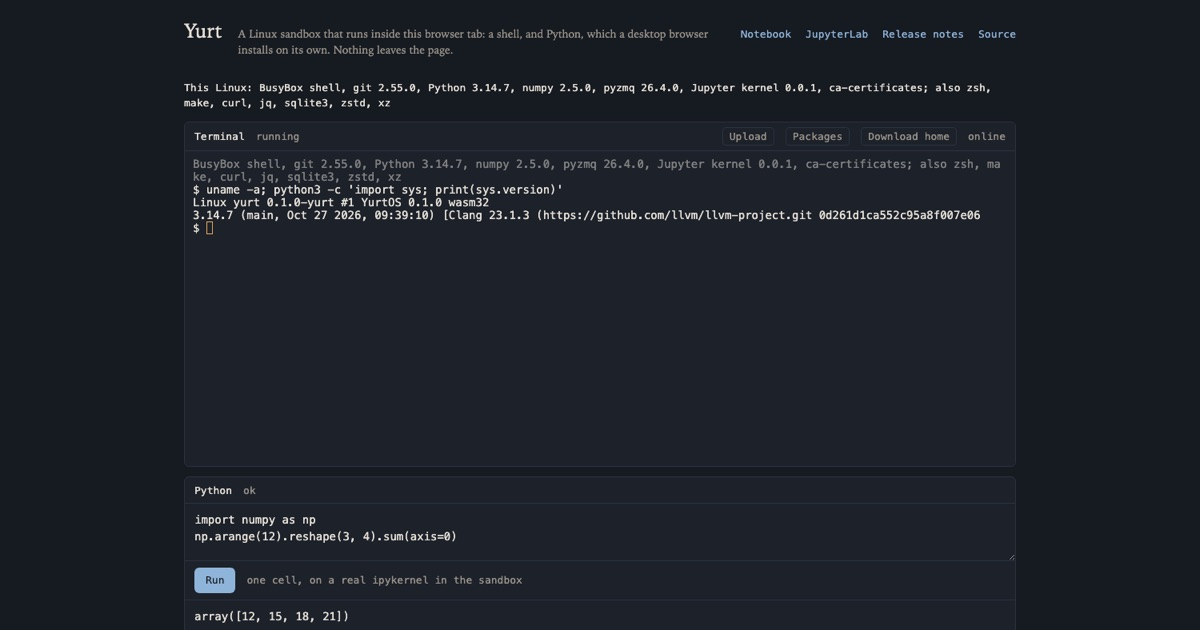
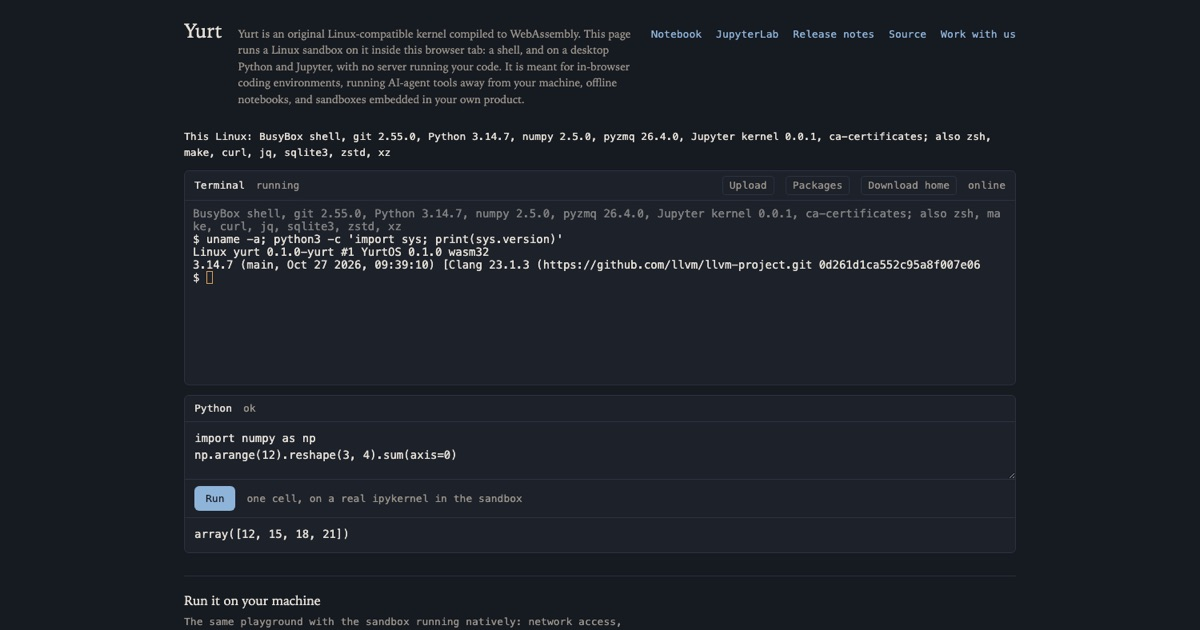
feat(page): review fixes -- the seal API as it is, tablets have Python
The last snapshot card says what the kernel's JavaScript host can seal
today and that it is not public yet, points to the partner section, and
points a program at window.yurt instead of promising partners an API.
The lead says "meant for" and "running AI-agent tools away from your
machine". The tablet note says the shell and Python, and the tablet
failure says to reload or use a desktop browser. The start pane gives
each platform's first download. og-image.jpg is captured again with the
new lead. Tests pin the partner sentences and the version label's .N
and pass-through cases.

Claude-Session: https://claude.ai/code/session_01VmPDaDFFa1ddgvkvaN74Wt

diff --git a/public/index.html b/public/index.html
@@ -658,9 +658,9 @@
           Yurt is an original Linux-compatible kernel compiled to WebAssembly.
           This page runs a Linux sandbox on it inside this browser tab: a shell,
           and on a desktop Python and Jupyter, with no server running your code.
-          It is built for in-browser coding environments, safe execution of
-          AI-agent tools, offline notebooks, and sandboxes embedded in your own
-          product.
+          It is meant for in-browser coding environments, running AI-agent tools
+          away from your machine, offline notebooks, and sandboxes embedded in
+          your own product.
         </p>
         <nav aria-label="interfaces">
           <a
@@ -689,7 +689,7 @@
       </p>
 
       <p id="mobile-note" data-testid="mobile-note" hidden>
-        This looks like a tablet, so this page runs the Linux shell only, with a
+        This looks like a tablet, so this page runs the shell and Python, with a
         snapshot made for tablets: Jupyter and the agent need more memory than a
         tablet browser gives one tab. A desktop browser, or the desktop app,
         runs all of it.
@@ -826,11 +826,12 @@
             </button>
             <p>
               BusyBox <code>ash</code> on a real PTY, on the Yurt kernel
-              compiled to WebAssembly: a shell in about 2&nbsp;s, Jupyter in
-              about 5&nbsp;s.
+              compiled to WebAssembly: a shell in about 2&nbsp;s (Jupyter in
+              about 5&nbsp;s on a desktop).
               <span id="first-visit-note" data-testid="first-visit-note"
-              >The first visit downloads about 140 MB once (40 MB on a phone);
-                later visits load it from the browser's cache.</span>
+              >The first visit downloads it once, about 140 MB on a desktop, 100
+                MB on a tablet, 40 MB on a phone; later visits load it from the
+                browser's cache.</span>
               <span id="offline-note"
               >The sandbox has no network:
                 <code>pip install</code> and <code>wget</code> fail by design
@@ -848,9 +849,9 @@
               <a href="./?start-anyway">this page with ?start-anyway</a>.
             </p>
             <p data-why="tablet" hidden>
-              This is a tablet, and mobile browsers rarely give a tab the memory
-              and background workers the sandbox needs. Open this page in a
-              desktop browser.
+              This is a tablet, and the sandbox did not start here: tablet
+              browsers give one tab little memory and few background workers.
+              Reload to try again, or open this page in a desktop browser.
             </p>
             <p data-why="reloaded" hidden>
               The browser reloaded this tab while the sandbox was starting. That
@@ -1091,13 +1092,14 @@ yurt stop web</pre>
           <article class="check">
             <h3>Check the bytes</h3>
             <p>
-              The site publishes the SHA-256 of the page's scripts, the kernel
-              and both guest images (the slim one and the 92 MB full one). This
-              fetches them again and hashes them here, in your browser, and also
-              compares the kernel's and the images' hashes with the ones this
-              repository pins in <code>artifacts/pins.json</code>. The snapshot
-              the page restores is not in this list: the page checks each of its
-              parts against its pinned SHA-256 as it loads them.
+              The site publishes the SHA-256 of the page's main scripts, the
+              kernel and both guest images (the slim one and the 92 MB full
+              one). This fetches them again and hashes them here, in your
+              browser, and also compares the kernel's and the images' hashes
+              with the ones this repository pins in <code
+              >artifacts/pins.json</code>. The snapshot the page restores is not
+              in this list: the page checks each of its parts against its pinned
+              SHA-256 as it loads them.
             </p>
             <button id="verify-files" type="button" data-testid="verify-files">
               Verify downloaded files
@@ -1183,11 +1185,20 @@ yurt stop web</pre>
             </p>
           </article>
           <article class="check">
-            <h3>Embedding API for partners</h3>
+            <h3>Building on it</h3>
             <p>
-              The same sandbox can be embedded in a product of your own, with
-              suspend and resume. That API is available to partners; see
+              The kernel's JavaScript host can seal and restore a running
+              sandbox (today: programs built for it, one thread each, no open
+              sockets). It is not public yet; if you want to build on it, see
               <a href="#partner">Help bring Yurt to customers</a> below.
+            </p>
+            <p>
+              To drive this page's sandbox from a program now, use
+              <code>window.yurt</code> (commands, files, status), described in
+              the
+              <a
+                href="https://github.com/YurtOS/yurt-playground#driving-the-sandbox-from-a-program"
+              >README</a>.
             </p>
           </article>
         </div>

diff --git a/tests/verify_test.ts b/tests/verify_test.ts
@@ -202,3 +202,21 @@ Deno.test("release-notes links stay on the top when pins.json names no train", a
   assertEquals(elements.get("release-notes-link")?.href, undefined);
   assertEquals(elements.get("footer-release-notes")?.href, undefined);
 });
+
+Deno.test("the footer's version is the train's date, with its .N suffix", async () => {
+  const source = await Deno.readTextFile(
+    new URL("../public/verify.js", import.meta.url),
+  );
+  const document = {
+    getElementById: () => new FakeElement(),
+    createElement: () => new FakeElement(),
+  };
+  // No pins: showTrain() gives up, and the context keeps trainVersion.
+  const fetch = () => Promise.reject(new Error("offline"));
+  const context: Record<string, unknown> = { console, document, fetch };
+  runInNewContext(source, context);
+  const trainVersion = context.trainVersion as (train: string) => string;
+  assertEquals(trainVersion("playground-2026.10.29-3d32068"), "2026-10-29");
+  assertEquals(trainVersion("playground-2026.10.27-3d32068.2"), "2026-10-27.2");
+  assertEquals(trainVersion("local-build"), "local-build");
+});

diff --git a/tests/layout_test.ts b/tests/layout_test.ts
@@ -719,6 +719,18 @@ Deno.test("the partner section is linked from the masthead and names no email", 
   assertEquals(start > html.indexOf("</details>"), true, "below the strips");
   const partner = html.slice(start, html.indexOf("</section>", start));
   assertEquals(partner.includes("Help bring Yurt to customers"), true);
+  const prose = partner.replace(/\s+/g, " ");
+  assertEquals(
+    prose.includes(
+      "We're looking for a business partner to help identify customer opportunities, build relationships, and bring Yurt to market.",
+    ),
+    true,
+  );
+  assertEquals(
+    /Contact <a href="https:\/\/github\.com\/ofersa">Ofer<\/a> or <a href="https:\/\/github\.com\/smarcd">Sunny<\/a>\./
+      .test(prose),
+    true,
+  );
   for (const login of ["ofersa", "smarcd"]) {
     assertEquals(partner.includes(`https://github.com/${login}"`), true, login);
   }
